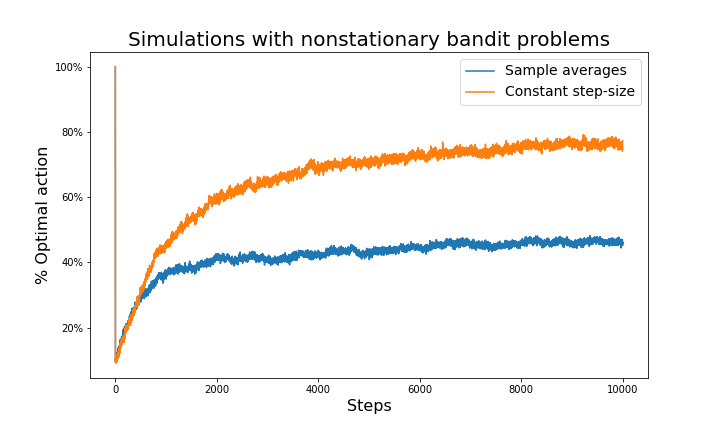
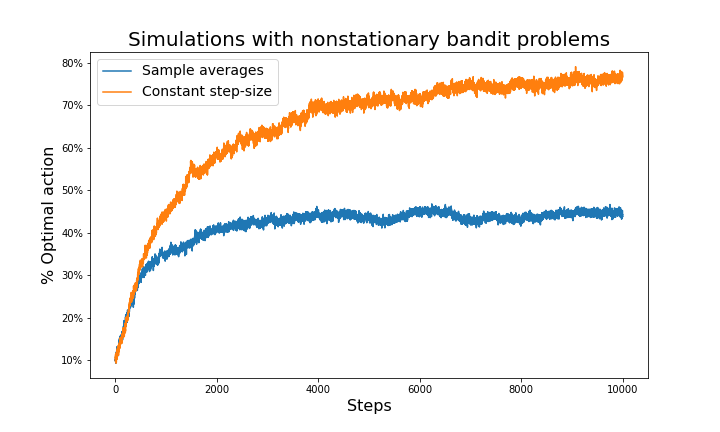
Worked on exercise 2.5

diff --git a/Chapter_2/chapter_2_exercises.md b/Chapter_2/chapter_2_exercises.md
@@ -66,6 +66,14 @@ $$
 
 ## Exercise 2.5 (programming)
 
-TODO: Insert plots from the program and maybe some notes?
+I programmed the exercise in a way that makes it easy to run simulations for both stationary and nonstationary bandit problems. The stationary plots are almost identical to the ones in the book (Figure 2.2), which is a good indication that the code works.
 
-TODO: Add % Optimal action plots to notebook
+![Stationary rewards](exercise_2_5/plot_rewards_stationary.png)
+
+![Stationary optimal actions](exercise_2_5/plot_optimal_actions_stationary.png)
+
+In the plots for the nonstationary bandit problems we can see that the action-value method using a constant step-size outperforms the method using sample averages. This is due to it being better at adapting to the changing action-values since it weighs recent rewards more strongly.
+
+![Nonstationary rewards](exercise_2_5/plot_rewards_nonstationary.png)
+
+![Nonstationary rewards](exercise_2_5/plot_optimal_actions_nonstationary.png)
